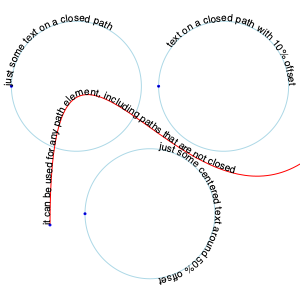
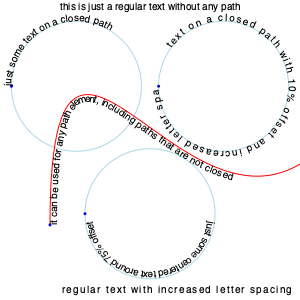
Text and TextOnPath accept dy and letter-spacing arguments

Changed region(s): [[0.15, 0.3, 0.99, 0.99], [0.18, 0.0, 0.99, 0.36]]

diff --git a/drawSvg/elements.py b/drawSvg/elements.py
@@ -380,10 +380,8 @@ class Text(DrawingParentElement):
     TAG_NAME = 'text'
     hasContent = True
     def __init__(self, text, fontSize, x=None, y=None, center=False, valign=None,
-                 lineHeight=1, path=None, startOffset=0, **kwargs):
+                 lineHeight=1, path=None, startOffset=0, letter_spacing=None, **kwargs):
         self.path = path
-        if self.path is None and startOffset is not None:
-            raise ValueError('startOffset argument can only be used when path is specified')
         singleLine = isinstance(text, str)
         if '\n' in text:
             text = text.splitlines()
@@ -427,7 +425,7 @@ class Text(DrawingParentElement):
                 y = 0
             else:
                 raise ValueError('Either path or x, y arguments must be given')
-        super().__init__(x=x, y=-y, font_size=fontSize, **kwargs)
+        super().__init__(x=x, y=-y, font_size=fontSize, letter_spacing=letter_spacing, **kwargs)
         if singleLine:
             self.escapedText = xml.escape(text)
         else:
@@ -437,7 +435,7 @@ class Text(DrawingParentElement):
                 dy = '{}em'.format(emOffset if i == 0 else lineHeight)
                 self.appendLine(line, x=x, dy=dy)
         if self.path is not None:
-            self.append(_TextPathNode(self.escapedText, path, startOffset=startOffset))
+            self.append(_TextPathNode(self.escapedText, path, letter_spacing=letter_spacing, startOffset=startOffset, **kwargs))
     def writeContent(self, idGen, isDuplicate, outputFile, dryRun):
         if dryRun:
             return
@@ -456,15 +454,21 @@ class Text(DrawingParentElement):
     def appendLine(self, line, **kwargs):
         self.append(TSpan(line, **kwargs))
 
-class _TextPathNode(DrawingBasicElement):
+class _TextPathNode(DrawingParentElement):
     TAG_NAME = 'textPath'
     hasContent = True
-    def __init__(self, text, path, startOffset=0, **kwargs):
-        super().__init__(xlink__href=path, **kwargs)
+    def __init__(self, text, path, startOffset=0, dy=None, letter_spacing=None, **kwargs):
+        super().__init__(xlink__href=path, startOffset=startOffset, **kwargs)
+        self.letter_spacing = letter_spacing
+        self.dy = dy
         self.escapedText = xml.escape(text)
         self.args['startOffset'] = startOffset
+        if any(elem is not None for elem in [self.dy, self.letter_spacing]):
+            self.append(TSpan(self.escapedText, dy=self.dy, letter_spacing=self.letter_spacing, **kwargs))
     def writeContent(self, idGen, isDuplicate, outputFile, dryRun):
         if dryRun: return
+        if self.dy is not None: return
+        if self.letter_spacing is not None: return
         outputFile.write(self.escapedText)
 
 class TSpan(DrawingBasicElement):

diff --git a/README.md b/README.md
@@ -206,7 +206,7 @@ path.A(r, r, 90, 1, 1, ix, iy)
 d.append(path)
 
 d.append(draw.Circle(ix, iy, 1, stroke='blue'))
-text = draw.Text('text on a closed path with 10% offset', 10, x=x, y=y, path=path, startOffset='10%')
+text = draw.Text('text on a closed path with 10% offset and increased letter spacing', 10, x=x, y=y, path=path, startOffset='10%', letter_spacing=1.5)
 d.append(text)
 
 # top left circle
@@ -246,7 +246,7 @@ path.A(r, r, 90, 1, 1, ix, iy)
 d.append(path)
 
 d.append(draw.Circle(ix, iy, 1, stroke='blue'))
-text = draw.Text('just some centered text around 50% offset', 10, x=x, y=y, path=path, text_anchor='middle', startOffset='50%')
+text = draw.Text('just some centered text around 75% offset', 10, x=x, y=y, path=path, text_anchor='middle', startOffset='75%', dy=7)
 d.append(text)
 
 # text on an arbitrary path
@@ -258,7 +258,13 @@ path.M(ix, iy).C(-len_x/3, len_y, len_x/3, -len_y, len_x-len_x/6, len_y/2)
 d.append(path)
 d.append(draw.Circle(ix, iy, 1, stroke='blue'))
 
-text = draw.Text('it can be used for any path element, including paths that are not closed', 10, x=x, y=y, path=path)
+text = draw.Text('it can be used for any path element, including paths that are not closed', 10, x=x, y=y, path=path, dy=7)
+d.append(text)
+
+text = draw.Text('this is just a regular text without any path', 10, x=0, y=len_y/2-10, text_anchor='middle')
+d.append(text)
+
+text = draw.Text('regular text with increased letter spacing', 10, x=0, y=-len_y/2+7, text_anchor='middle', letter_spacing=1.25)
 d.append(text)
 
 d.rasterize()
